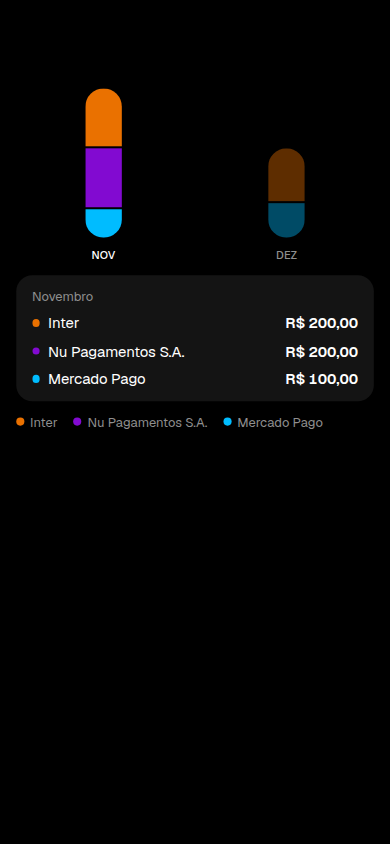
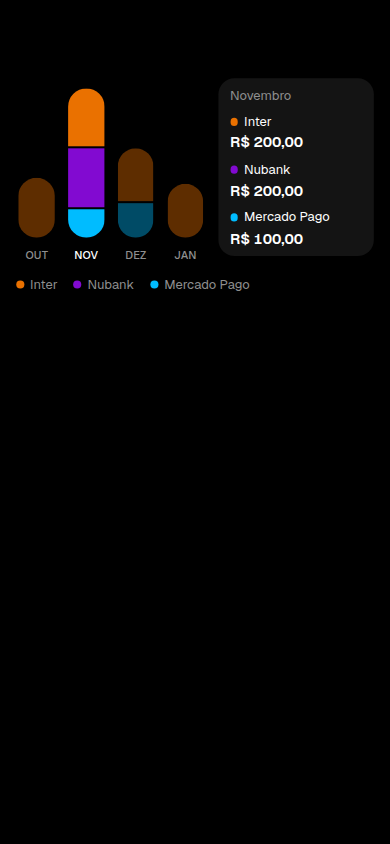
fix(mobile): meses anteriores e seguintes no gráfico de parcelas
O banco só manda a parcela já lançada. O gráfico agora projeta as que faltam, para trás e para a frente, no valor da última vista, e o valor do mês abre ao lado das barras.

diff --git a/apps/mobile/src/features/card/InstallmentsChart.tsx b/apps/mobile/src/features/card/InstallmentsChart.tsx
@@ -11,17 +11,19 @@ const BAR_MIN = 24;
 const BAR_WIDTH = 36;
 
 /**
- * Parcelas por mês, empilhadas por cartão (a mesma cor do logo). O mês de referência fica cheio e os
- * seguintes em 40%, como no Figma. Tocar numa coluna abre o valor daquele mês, por cartão.
+ * Parcelas por mês, empilhadas por cartão (a mesma cor do logo). O mês atual fica cheio; anteriores e
+ * seguintes ficam em 40%. Tocar numa coluna abre o valor ao lado do gráfico.
  */
 export function InstallmentsChart({
 	columns,
 	cards,
 	hidden,
+	currentMonth,
 }: {
 	columns: readonly MonthColumn[];
 	cards: readonly CardLike[];
 	hidden: boolean;
+	currentMonth: string;
 }) {
 	const [openMonth, setOpenMonth] = useState<string | null>(null);
 	const max = Math.max(1, ...columns.map((c) => c.totalCents));
@@ -29,76 +31,90 @@ export function InstallmentsChart({
 	const open = columns.find((col) => col.month === openMonth && col.totalCents > 0) ?? null;
 	return (
 		<View style={{ gap: spacing.md }}>
-			<View style={{ flexDirection: "row", alignItems: "flex-end", gap: spacing.sm, paddingTop: spacing.lg }}>
-				{columns.map((col, i) => {
-					const height =
-						col.totalCents === 0 ? 0 : Math.max(BAR_MIN, Math.round((col.totalCents / max) * BAR_MAX));
-					const expanded = open?.month === col.month;
-					const label = `${monthAbbrev(col.month)}: ${money(col.totalCents, hidden, { sign: "never" })}`;
-					return (
-						<Pressable
-							key={col.month}
-							accessibilityRole="button"
-							accessibilityLabel={expanded ? `${label}. Valor aberto` : label}
-							accessibilityState={{ expanded }}
-							disabled={col.totalCents === 0}
-							onPress={() => setOpenMonth(expanded ? null : col.month)}
-							style={{ flex: 1, alignItems: "center", gap: 10 }}
-						>
-							<View
-								style={{
-									width: BAR_WIDTH,
-									height,
-									gap: 2,
-									borderRadius: radius.pill,
-									overflow: "hidden",
-									opacity: i === 0 ? 1 : 0.4,
-								}}
-							>
-								{col.byCard.map((p) => {
-									const card = cards.find((c) => c.id === p.cardId);
-									return (
-										<View
-											key={p.cardId}
-											style={{ flex: p.cents, backgroundColor: card ? cardColor(card) : colors.surface3 }}
-										/>
-									);
-								})}
-							</View>
-							<Text variant="micro" tone={expanded || i === 0 ? "primary" : "secondary"}>
-								{monthAbbrev(col.month)}
-							</Text>
-						</Pressable>
-					);
-				})}
-			</View>
-			{open ? (
+			<View style={{ flexDirection: "row", alignItems: "center", gap: spacing.md }}>
 				<View
 					style={{
-						backgroundColor: colors.surface,
-						borderRadius: radius.inner,
-						paddingHorizontal: spacing.lg,
-						paddingVertical: spacing.md,
+						flex: 1,
+						flexDirection: "row",
+						alignItems: "flex-end",
 						gap: spacing.sm,
+						paddingTop: spacing.lg,
 					}}
 				>
-					<Text variant="caption" tone="secondary">
-						{monthName(open.month)}
-					</Text>
-					{open.byCard.map((part) => {
-						const card = cards.find((c) => c.id === part.cardId);
+					{columns.map((col) => {
+						const height =
+							col.totalCents === 0 ? 0 : Math.max(BAR_MIN, Math.round((col.totalCents / max) * BAR_MAX));
+						const current = col.month === currentMonth;
+						const expanded = open?.month === col.month;
+						const label = `${monthAbbrev(col.month)}: ${money(col.totalCents, hidden, { sign: "never" })}`;
 						return (
-							<View key={part.cardId} style={{ flexDirection: "row", alignItems: "center", gap: spacing.sm }}>
-								<Dot color={card ? cardColor(card) : colors.surface3} />
-								<Text variant="body" style={{ flex: 1 }} numberOfLines={1}>
-									{card?.name ?? "Cartão"}
+							<Pressable
+								key={col.month}
+								accessibilityRole="button"
+								accessibilityLabel={expanded ? `${label}. Valor aberto` : label}
+								accessibilityState={{ expanded }}
+								disabled={col.totalCents === 0}
+								onPress={() => setOpenMonth(expanded ? null : col.month)}
+								style={{ flex: 1, alignItems: "center", gap: 10 }}
+							>
+								<View
+									style={{
+										width: BAR_WIDTH,
+										height,
+										gap: 2,
+										borderRadius: radius.pill,
+										overflow: "hidden",
+										opacity: current ? 1 : 0.4,
+									}}
+								>
+									{col.byCard.map((p) => {
+										const card = cards.find((c) => c.id === p.cardId);
+										return (
+											<View
+												key={p.cardId}
+												style={{ flex: p.cents, backgroundColor: card ? cardColor(card) : colors.surface3 }}
+											/>
+										);
+									})}
+								</View>
+								<Text variant="micro" tone={expanded || current ? "primary" : "secondary"}>
+									{monthAbbrev(col.month)}
 								</Text>
-								<Text variant="bodyStrong">{money(part.cents, hidden, { sign: "never" })}</Text>
-							</View>
+							</Pressable>
 						);
 					})}
 				</View>
-			) : null}
+				{open ? (
+					<View
+						style={{
+							width: 156,
+							backgroundColor: colors.surface,
+							borderRadius: radius.inner,
+							paddingHorizontal: spacing.md,
+							paddingVertical: spacing.sm,
+							gap: spacing.sm,
+						}}
+					>
+						<Text variant="caption" tone="secondary">
+							{monthName(open.month)}
+						</Text>
+						{open.byCard.map((part) => {
+							const card = cards.find((c) => c.id === part.cardId);
+							return (
+								<View key={part.cardId} style={{ gap: 2 }}>
+									<View style={{ flexDirection: "row", alignItems: "center", gap: 6 }}>
+										<Dot color={card ? cardColor(card) : colors.surface3} />
+										<Text variant="caption" style={{ flex: 1 }} numberOfLines={1}>
+											{card?.name ?? "Cartão"}
+										</Text>
+									</View>
+									<Text variant="bodyStrong">{money(part.cents, hidden, { sign: "never" })}</Text>
+								</View>
+							);
+						})}
+					</View>
+				) : null}
+			</View>
 			<View style={{ flexDirection: "row", flexWrap: "wrap", columnGap: spacing.lg, rowGap: spacing.xs }}>
 				{used.map((c) => (
 					<View key={c.id} style={{ flexDirection: "row", alignItems: "center", gap: 6 }}>

diff --git a/apps/mobile/src/features/card/card-model.ts b/apps/mobile/src/features/card/card-model.ts
@@ -285,9 +285,9 @@ export function commitment(groups: readonly InstallmentGroupLike[], month: Month
 	let committedCents = 0;
 	let futureCents = 0;
 	for (const g of activeGroups(groups)) {
-		for (const t of g.installments) {
-			if (t.invoiceMonth === month) committedCents += t.amountCents;
-			else if (t.invoiceMonth !== null && t.invoiceMonth > month) futureCents += t.amountCents;
+		for (const t of scheduleAmounts(g)) {
+			if (t.month === month) committedCents += t.cents;
+			else if (t.month > month) futureCents += t.cents;
 		}
 	}
 	return { committedCents, futureCents };
@@ -301,34 +301,73 @@ export interface MonthColumn {
 }
 
 /**
- * Colunas do gráfico: até `max` meses a partir de `from`, cortando os meses vazios do fim (o primeiro fica
- * mesmo vazio). `cardOrder` fixa a ordem das fatias para a cor não pular de lugar entre meses.
+ * Onde cada parcela cai. O banco manda só as que já existem; as que faltam (antes da primeira e depois da
+ * última) entram no mês correspondente, pelo valor da última vista — a mesma estimativa do "faltam".
+ */
+function scheduleAmounts(group: InstallmentGroupLike): { month: MonthKey; cents: Cents }[] {
+	const known = group.installments.filter(
+		(t): t is InstallmentLike & { invoiceMonth: MonthKey; installmentNumber: number } =>
+			t.invoiceMonth !== null && t.installmentNumber !== null,
+	);
+	if (known.length === 0) {
+		return group.installments.flatMap((t) =>
+			t.invoiceMonth !== null ? [{ month: t.invoiceMonth, cents: t.amountCents }] : [],
+		);
+	}
+	const byNumber = new Map(known.map((t) => [t.installmentNumber, t]));
+	const anchor = known.reduce((a, b) => (a.installmentNumber > b.installmentNumber ? a : b));
+	const out: { month: MonthKey; cents: Cents }[] = [];
+	for (let n = 1; n <= group.count; n += 1) {
+		const row = byNumber.get(n);
+		out.push(
+			row
+				? { month: row.invoiceMonth, cents: row.amountCents }
+				: { month: addMonths(anchor.invoiceMonth, n - anchor.installmentNumber), cents: anchor.amountCents },
+		);
+	}
+	return out;
+}
+
+/** Até `max` meses, com `from` sempre no meio do que couber: primeiro os seguintes, depois os anteriores. */
+function chartMonths(months: readonly MonthKey[], from: MonthKey, max: number): MonthKey[] {
+	const sorted = [...new Set(months)].sort();
+	if (!sorted.includes(from)) sorted.push(from);
+	sorted.sort();
+	if (sorted.length <= max) return sorted;
+	const future = sorted.filter((m) => m >= from).slice(0, max);
+	const room = max - future.length;
+	const past = sorted.filter((m) => m < from).slice(-room);
+	return [...past, ...future];
+}
+
+/**
+ * Colunas do gráfico: meses anteriores, o atual e os seguintes (até `max`). `cardOrder` fixa a ordem das
+ * fatias para a cor não pular de lugar entre meses. Sem parcela, fica só o mês atual vazio.
  */
 export function monthColumns(
 	groups: readonly InstallmentGroupLike[],
 	from: MonthKey,
 	cardOrder: readonly string[],
-	max = 8,
+	max = 12,
 ): MonthColumn[] {
-	const columns: MonthColumn[] = [];
-	for (let i = 0; i < max; i += 1) {
-		const month = addMonths(from, i);
-		const per = new Map<string, Cents>();
-		for (const g of activeGroups(groups)) {
-			if (g.cardId === null) continue;
-			for (const t of g.installments) {
-				if (t.invoiceMonth === month) per.set(g.cardId, (per.get(g.cardId) ?? 0) + t.amountCents);
-			}
+	const perMonth = new Map<MonthKey, Map<string, Cents>>();
+	for (const g of activeGroups(groups)) {
+		if (g.cardId === null) continue;
+		for (const t of scheduleAmounts(g)) {
+			const per = perMonth.get(t.month) ?? new Map<string, Cents>();
+			per.set(g.cardId, (per.get(g.cardId) ?? 0) + t.cents);
+			perMonth.set(t.month, per);
 		}
+	}
+	const months = perMonth.size === 0 ? [from] : chartMonths([...perMonth.keys()], from, max);
+	return months.map((month) => {
+		const per = perMonth.get(month);
 		const byCard = cardOrder.flatMap((cardId) => {
-			const cents = per.get(cardId) ?? 0;
+			const cents = per?.get(cardId) ?? 0;
 			return cents > 0 ? [{ cardId, cents }] : [];
 		});
-		columns.push({ month, totalCents: byCard.reduce((s, p) => s + p.cents, 0), byCard });
-	}
-	let last = columns.length - 1;
-	while (last > 0 && columns[last]?.totalCents === 0) last -= 1;
-	return columns.slice(0, last + 1);
+		return { month, totalCents: byCard.reduce((s, p) => s + p.cents, 0), byCard };
+	});
 }
 
 /** "NOV", "DEZ": três letras em caixa alta, como no Figma. */
@@ -360,8 +399,8 @@ export function installmentCard(group: InstallmentGroupLike, from: MonthKey): In
 		(a, b) => (a.installmentNumber ?? 0) - (b.installmentNumber ?? 0),
 	);
 	const current = ordered.find((t) => t.invoiceMonth !== null && t.invoiceMonth >= from) ?? ordered.at(-1);
-	const lastMonth = ordered.reduce<MonthKey | null>(
-		(acc, t) => (t.invoiceMonth !== null && (acc === null || t.invoiceMonth > acc) ? t.invoiceMonth : acc),
+	const lastMonth = scheduleAmounts(group).reduce<MonthKey | null>(
+		(acc, t) => (acc === null || t.month > acc ? t.month : acc),
 		null,
 	);
 	const left = group.remainingCount;

diff --git a/apps/mobile/src/features/card/card-model.test.ts b/apps/mobile/src/features/card/card-model.test.ts
@@ -180,14 +180,39 @@ describe("parcelas", () => {
 		expect(commitment([kabum, done, other], "2026-11")).toEqual({ committedCents: 2000, futureCents: 3000 });
 		expect(commitment([], "2026-11")).toEqual({ committedCents: 0, futureCents: 0 });
 	});
-	it("colunas por mês, na ordem dos cartões, cortando meses vazios do fim", () => {
+	it("colunas por mês, na ordem dos cartões, com o anterior e os seguintes", () => {
 		const cols = monthColumns([kabum, other], "2026-11", ["c2", "c1"]);
-		expect(cols.map((c) => c.month)).toEqual(["2026-11", "2026-12", "2027-01"]);
-		expect(cols[0]?.byCard).toEqual([
+		expect(cols.map((c) => c.month)).toEqual(["2026-10", "2026-11", "2026-12", "2027-01"]);
+		expect(cols[1]?.byCard).toEqual([
 			{ cardId: "c2", cents: 1000 },
 			{ cardId: "c1", cents: 1000 },
 		]);
-		expect(cols[2]).toMatchObject({ totalCents: 1000, byCard: [{ cardId: "c1", cents: 1000 }] });
+		expect(cols[3]).toMatchObject({ totalCents: 1000, byCard: [{ cardId: "c1", cents: 1000 }] });
+	});
+	it("completa os meses que o banco ainda não mandou, para trás e para a frente", () => {
+		const partial = group({
+			months: ["2026-11"],
+			count: 10,
+			remainingCount: 7,
+			remainingCents: 7000,
+			installments: [{ invoiceMonth: "2026-11", amountCents: 1000, installmentNumber: 4 }],
+		});
+		const cols = monthColumns([partial], "2026-11", ["c1"]);
+		expect(cols.map((c) => c.month)).toEqual([
+			"2026-08",
+			"2026-09",
+			"2026-10",
+			"2026-11",
+			"2026-12",
+			"2027-01",
+			"2027-02",
+			"2027-03",
+			"2027-04",
+			"2027-05",
+		]);
+		expect(cols.every((c) => c.totalCents === 1000)).toBe(true);
+		expect(commitment([partial], "2026-11")).toEqual({ committedCents: 1000, futureCents: 6000 });
+		expect(installmentCard(partial, "2026-11").endLabel).toBe("Termina em maio de 2027 · faltam 7");
 	});
 	it("sem parcelas, devolve só o primeiro mês vazio", () => {
 		expect(monthColumns([], "2026-11", ["c1"])).toEqual([{ month: "2026-11", totalCents: 0, byCard: [] }]);

diff --git a/apps/mobile/src/features/card/InstallmentsTab.tsx b/apps/mobile/src/features/card/InstallmentsTab.tsx
@@ -58,7 +58,7 @@ export function InstallmentsTab({ cards, hidden }: { cards: readonly CardLike[];
 			/>
 			{columns.some((c) => c.totalCents > 0) ? (
 				<>
-					<InstallmentsChart columns={columns} cards={cards} hidden={hidden} />
+					<InstallmentsChart columns={columns} cards={cards} hidden={hidden} currentMonth={month} />
 					<BleedRow>
 						<CardChip card={null} selected={filter === null} onPress={() => setFilter(null)} showName />
 						{cards.map((c) => (
